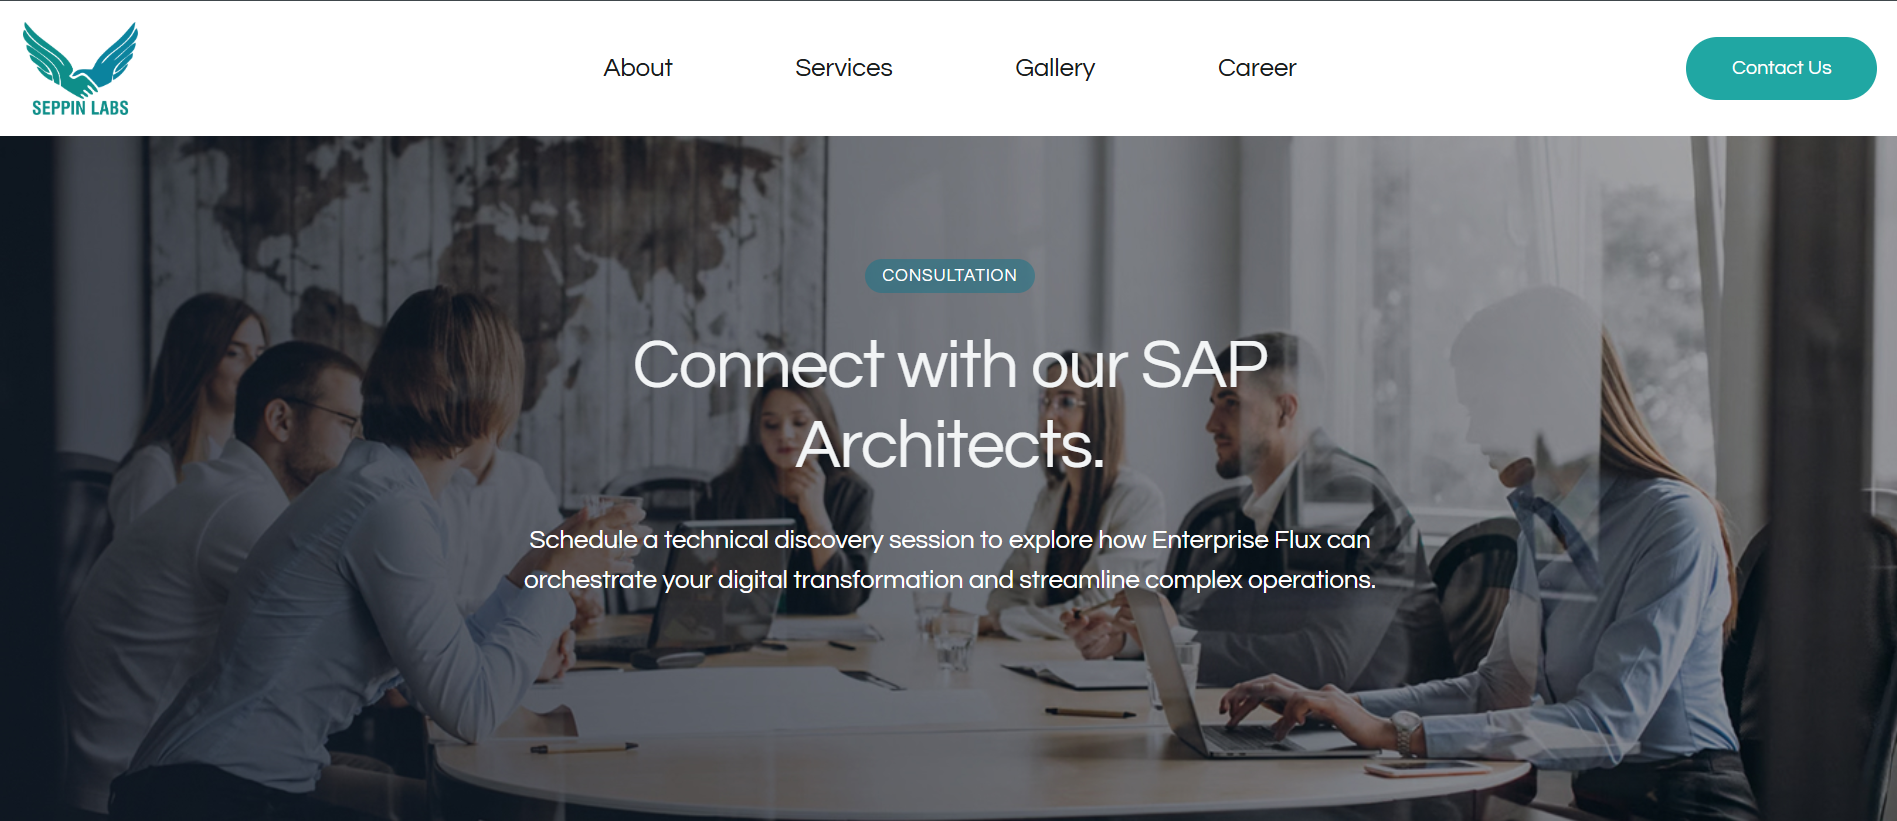
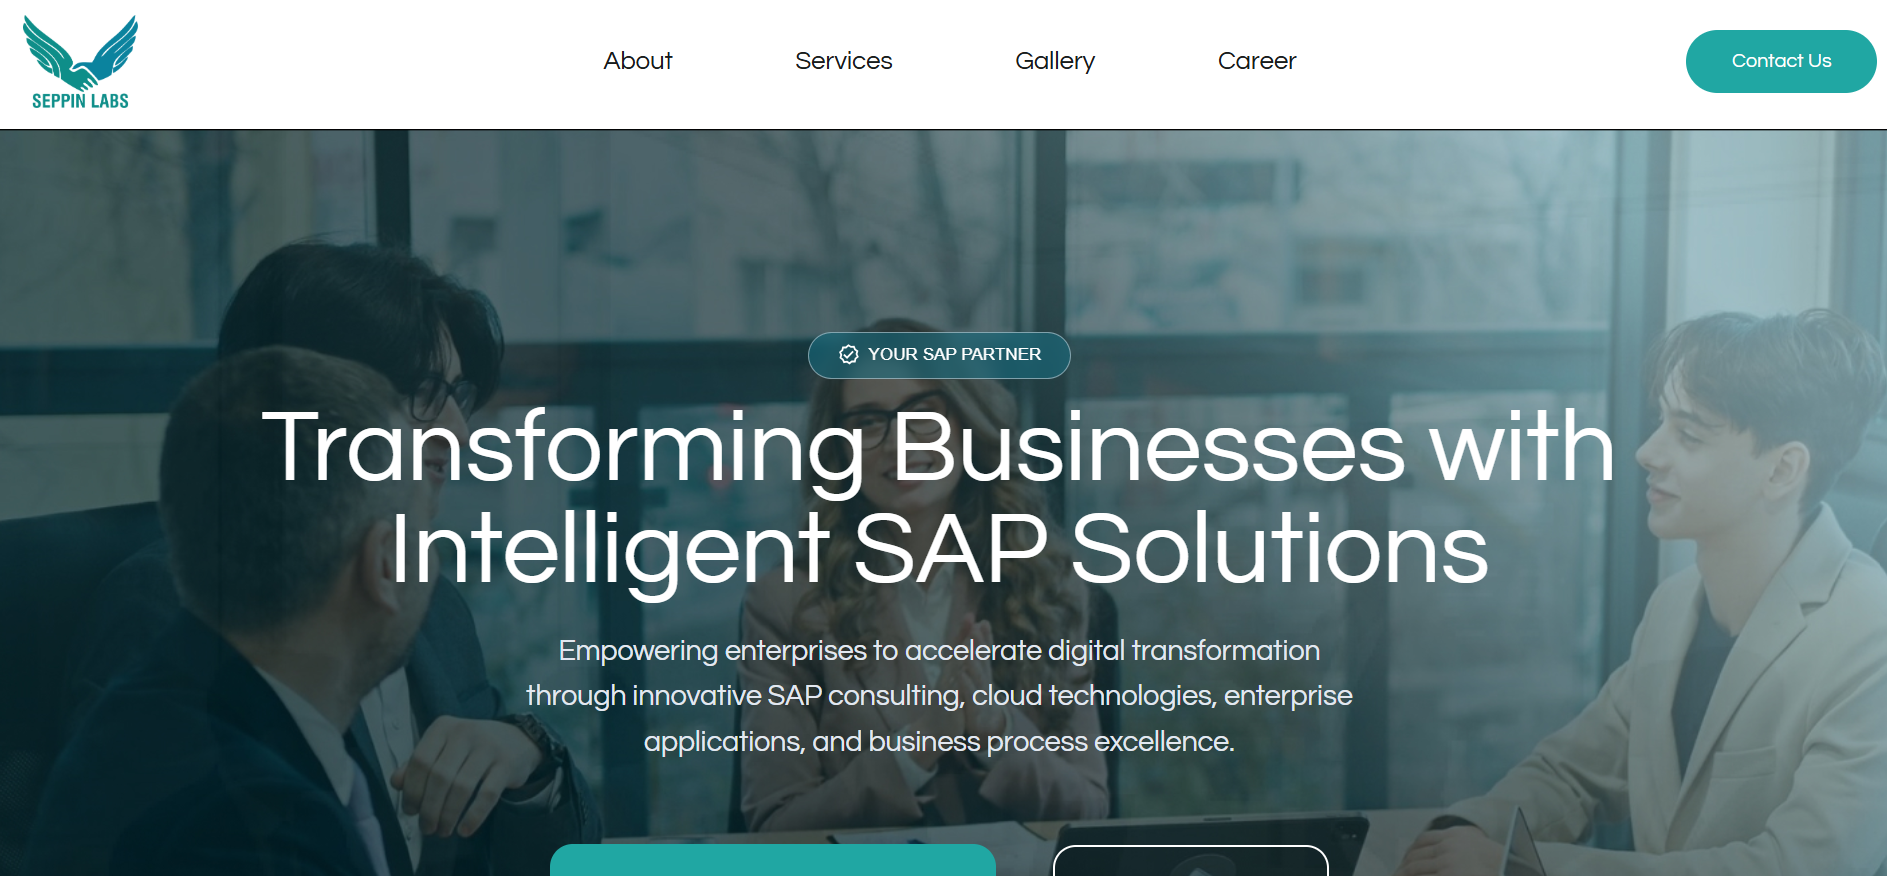
minichange

diff --git a/index.html b/index.html
@@ -301,7 +301,7 @@
                 <div class="project-box tail-box">
                     <div class="project-textbox">
                         <div class="projectimgbox">
-                            <a href="https://seppin.co.in/contact-us/">
+                            <a href="https://seppin.co.in/home/">
                                 <img src="images/sippen.png" width="100%">
                             </a>
                         </div>
@@ -310,7 +310,7 @@
                             <h3>Wordpress Project</h3>
                             <h2>Sappin Labs</h2>
                             <p>Seppin Labs is an SAP-focused technology company helping businesses simplify complex operations and accelerate digital transformation.</p>
-                            <a href="https://seppin.co.in/contact-us/">
+                            <a href="https://seppin.co.in/home/">
                                 <button class="secbbttn">Live Project <i
                                         class="bandraro bi bi-arrow-right-short"></i></button>
                             </a>
